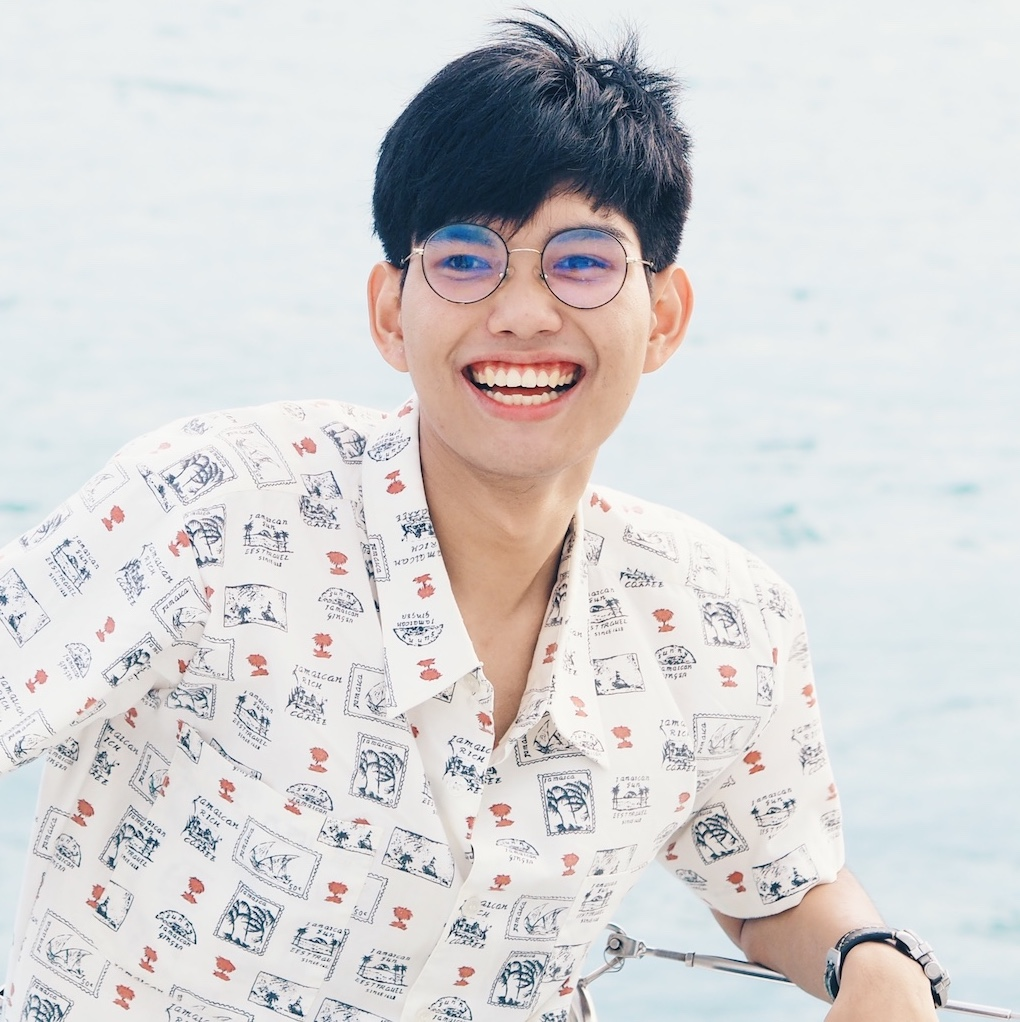
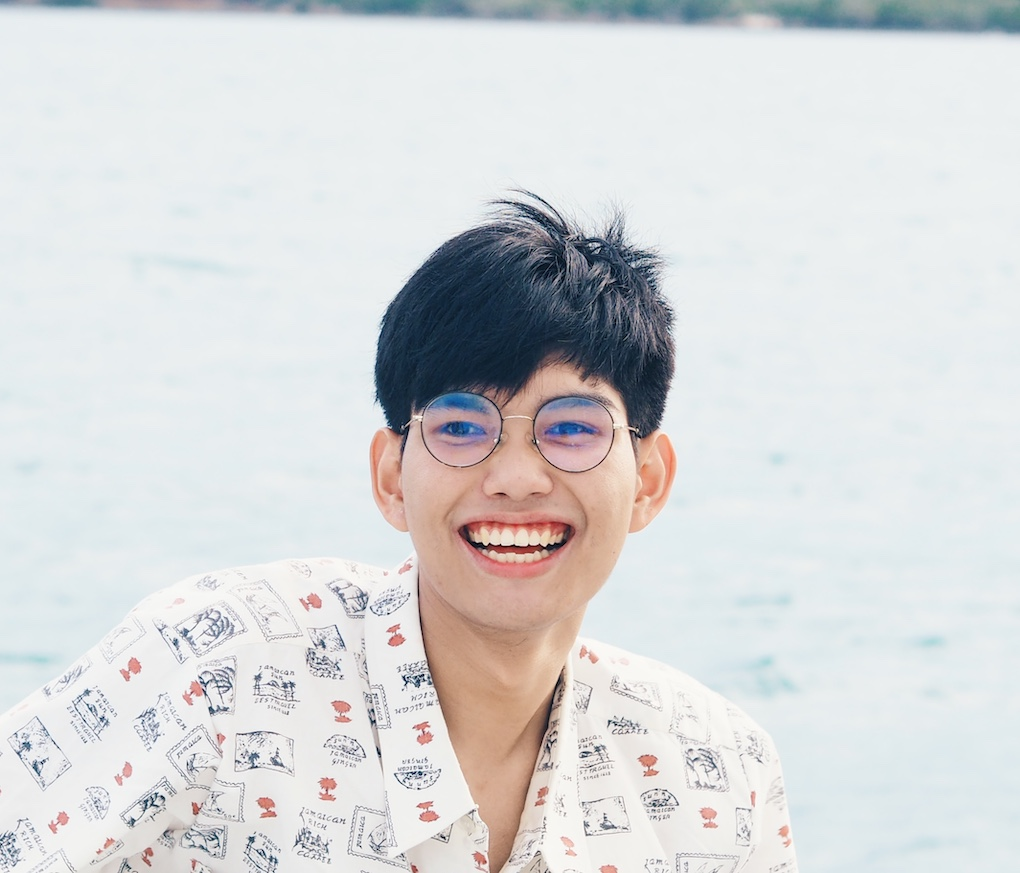
add responsive in about section

diff --git a/src/styles/_education.scss b/src/styles/_education.scss
@@ -2,7 +2,7 @@
   margin: 1rem;
   display: flex;
   .left-education-section {
-    width: 50vh;
+    // width: 50vh;
   }
   .right-education-section {
     display: flex;
@@ -16,17 +16,36 @@
       h3 {
         color: #cf2c96;
       }
+      .highlight {
+        color: #20adee;
+      }
     }
     .education-info2 {
       text-align: right;
     }
   }
-  //   @media screen and (max-width: 1100px) {
-  //     .EducationSection {
-  //       all: none;
-  //     }
-  //   }
-  @media screen and (max-width: 1400px) {
+  @media screen and (max-width: 441px) {
+    margin: 0;
+    .left-education-section {
+      display: flex;
+      justify-content: center;
+    }
+
+    .right-education-section {
+      flex-direction: column;
+      .education-info1 {
+        text-align: center;
+      }
+      .education-info2 {
+        text-align: center;
+      }
+    }
+  }
+  @media screen and (max-width: 1100px) {
+    .left-education-section {
+      display: flex;
+      justify-content: center;
+    }
     flex-direction: column;
   }
 }

diff --git a/src/Pages/HomePage.js b/src/Pages/HomePage.js
@@ -15,7 +15,7 @@ function HomePage() {
     <div className="HomePage">
       <header className="greeting">
         <h1 className="greeting-text">
-          Hi, welcone to <span>TonTosirikul</span>'s site.
+          Hi, welcome to <span>TonTosirikul</span>'s site.
         </h1>
         <p className="h-sub-text">
           This site is my first react portfolio project, which you can find all
@@ -83,12 +83,11 @@ function HomePage() {
         <div className="loop">
           <TypistLoop interval={1000}>
             {[
-              "Robotics",
-              "Software Development",
-              "Artificial Intelligence",
-              "Blogging",
+              "Robotics & AI Engineer",
+              "Software Developer",
+              "Blogger",
               "Youtuber",
-              "Book reader",
+              "Reader",
             ].map((text) => (
               <Typist key={text} startDelay={500}>
                 {text}

diff --git a/src/styles/_experience.scss b/src/styles/_experience.scss
@@ -9,6 +9,9 @@
     h3 {
       color: #cf2c96;
     }
+    p {
+      color: #20adee;
+    }
     ul {
       margin-left: 1.5rem;
     }
@@ -16,7 +19,29 @@
   .experience-info2 {
     text-align: right;
   }
-  // @media screen and (max-width: 1400px) {
-  //   // flex-direction: column;
-  // }
+  @media screen and (max-width: 1400px) {
+    flex-direction: column;
+    .experience-info1 {
+      h3 {
+        text-align: center;
+      }
+      p {
+        text-align: center;
+      }
+      ul {
+        margin-top: 1rem;
+        list-style: square;
+        text-align: left;
+      }
+    }
+    .experience-info2 {
+      margin-top: 1rem;
+      h3 {
+        text-align: center;
+      }
+      p {
+        text-align: center;
+      }
+    }
+  }
 }

diff --git a/src/styles/_about.scss b/src/styles/_about.scss
@@ -1,5 +1,7 @@
 .ImageSection {
-  display: flex;
+  display: grid;
+  grid-template-rows: repeat(1, 1fr);
+  justify-content: center;
   margin-top: 4rem;
   margin-bottom: 4rem;
   .img {
@@ -12,6 +14,7 @@
     }
   }
   .about-info {
+    margin-top: 2rem;
     margin-left: 2rem;
     h4 {
       font-size: 2rem;
@@ -24,8 +27,23 @@
       }
     }
   }
+  @media screen and (max-width: 1100px) {
+    flex-direction: column;
+    padding: 1rem;
+    .about-info {
+      margin-top: 3rem;
+      margin-left: 1rem;
+    }
+  }
+  @media screen and (max-width: 411px) {
+    width: 100%;
+  }
 }
-
+.education-container {
+  @media screen and (max-width: 1100px) {
+    margin: 0;
+  }
+}
 .about-details {
   display: flex;
   flex-direction: row;

diff --git a/src/Components/NavBar.js b/src/Components/NavBar.js
@@ -20,7 +20,7 @@ function NavBar() {
               About
             </NavLink>
           </li>
-          <li className="nav-item">
+          {/* <li className="nav-item">
             <NavLink to="/projects" exact activeClassName="active">
               Projects
             </NavLink>
@@ -29,7 +29,7 @@ function NavBar() {
             <NavLink to="/contact" exact activeClassName="active">
               Contact
             </NavLink>
-          </li>
+          </li> */}
         </ul>
         <footer className="footer">
           <p>@2021 Tanhapon Tosirikul</p>

diff --git a/src/Pages/AboutPage.js b/src/Pages/AboutPage.js
@@ -49,7 +49,7 @@ function AboutPage() {
           );
         })}
       </div>
-      <Title
+      {/* <Title
         title={"Awards and Certificates"}
         span={"Awards and Certificates"}
       />
@@ -63,7 +63,7 @@ function AboutPage() {
             />
           );
         })}
-      </div>
+      </div> */}
       <Title title={"Skills"} span={"Skills"} />
       <div className="skills-container">
         {skills.map((skill) => {

diff --git a/src/styles/_layout.scss b/src/styles/_layout.scss
@@ -36,6 +36,11 @@
     @media screen and (max-width: 1000px) {
       margin-left: 0;
       width: 100%;
+      .content {
+        display: block;
+        padding: 1rem;
+        margin: auto;
+      }
     }
   }
 }
@@ -44,7 +49,7 @@
   position: absolute;
   z-index: 10;
   right: 10%;
-  top: 10%;
+  top: 5%;
   // background-color: red;
   width: 5rem;
   height: 5rem;

diff --git a/src/Components/EducationSection.js b/src/Components/EducationSection.js
@@ -15,7 +15,7 @@ function EducationSection({
       <div className="right-education-section">
         <div className="education-info1">
           <h3>{school_name}</h3>
-          <p>{school_program}</p>
+          <p className="highlight">{school_program}</p>
           <p>{info}</p>
         </div>
         <div className="education-info2">

diff --git a/src/Components/ExperienceSection.js b/src/Components/ExperienceSection.js
@@ -9,7 +9,7 @@ function ExperienceSection({ workplace, position, infos, city, period }) {
         <p>{position}</p>
         <ul>{infoItems}</ul>
       </div>
-      <div className="eperience-info2">
+      <div className="experience-info2">
         <h3>{city}</h3>
         <p>{period}</p>
       </div>

diff --git a/src/styles/_skills.scss b/src/styles/_skills.scss
@@ -10,7 +10,14 @@
       text-transform: uppercase;
       color: #cf2c96;
     }
-    .skill-text {
+  }
+  @media screen and (max-width: 441px) {
+    margin: 1;
+    .skill-title {
+      text-align: center;
+    }
+    .skills-info {
+      text-align: center;
     }
   }
 }
